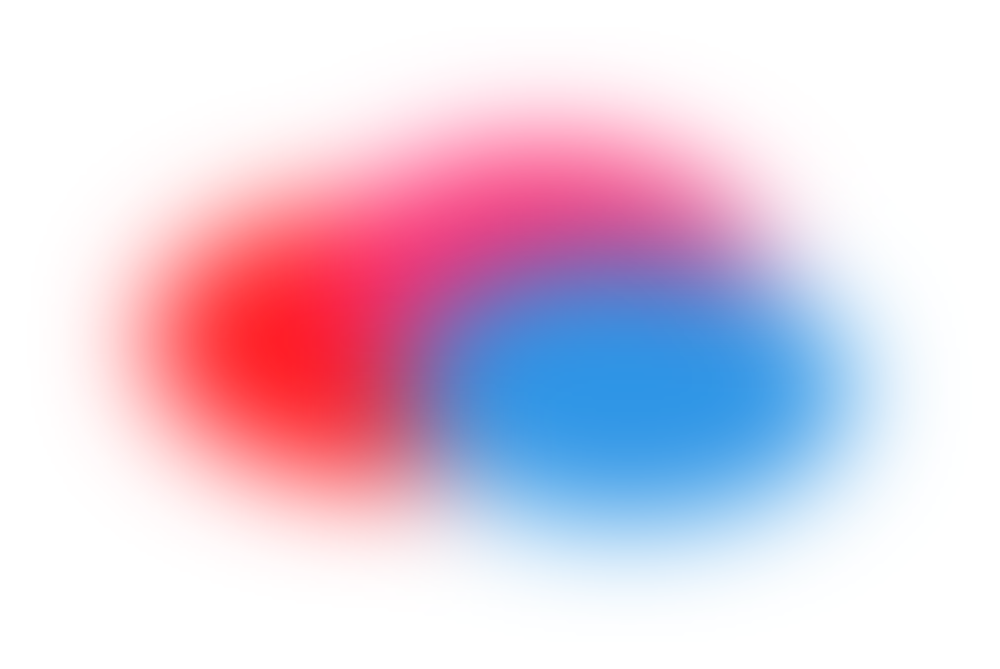
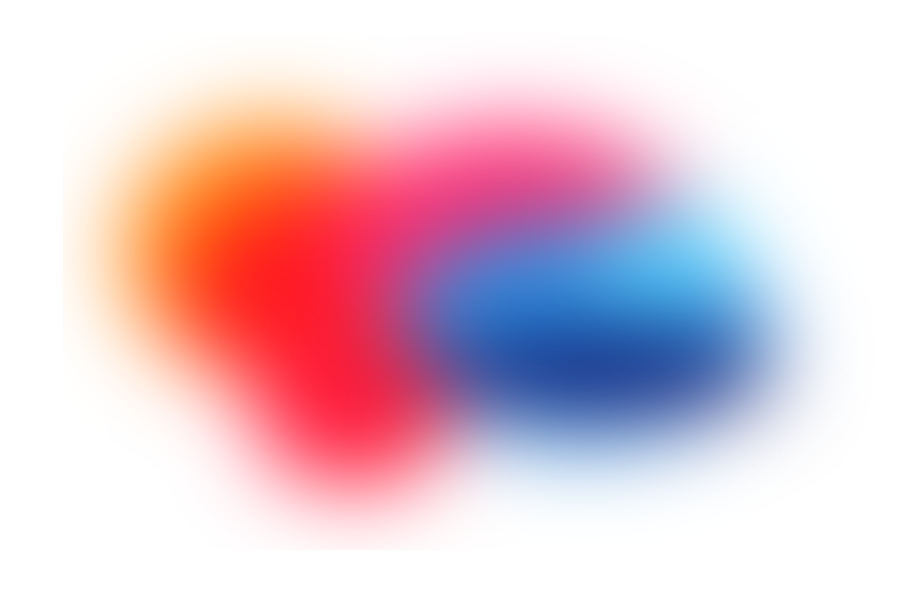
Update blob colors

diff --git a/_sass/base.scss b/_sass/base.scss
@@ -64,7 +64,7 @@ h6:before { content: "######";  margin-right: 9px; }*/
  */
 .container { width: $container-width;  max-width: $container-max-width; margin-right: auto;  margin-left: auto; position: relative; min-height: 97vh; }
 .content-wrapper { position: relative; border-radius: 30px 0px; border-left: var(--border);  border-top: var(--border); }
-.dots-stopper { position: absolute; top: -2px; right: -19px; height: 2px; user-select: none; }
+.dots-stopper { position: absolute; top: -2px; right: -20px; height: 2px; user-select: none; }
 @include media-query($on-laptop) { .footer-spacer { height: 6.0rem; } }
 p { word-wrap: break-word;  word-break: break-word;  white-space: pre-wrap; margin-bottom: 20px; }
 footer { color: var(--text-color);  margin: 20px auto 15px;  padding-top: 10px;  text-align: right; }
@@ -81,7 +81,7 @@ footer { position: absolute; bottom: 0; width: 100%; height: 2.0rem; margin-bott
 /**
  * Background
  */
-.bg-colors { width: 120vw; height: calc(120vw * 0.67); position: fixed; bottom: calc(-120vw*0.67 / 2.3); left: calc(-120vw*0.67 / 3.3); z-index: -1; filter: saturate(85%); }
+.bg-colors { width: 120vw; height: calc(120vw * 0.67); position: fixed; bottom: calc(-120vw*0.67 / 2.0); left: calc(-120vw*0.67 / 3.25); z-index: -1; filter: saturate(85%); }
 @include media-query($on-laptop) { .bg-colors { display: none; }}
 
 /**
